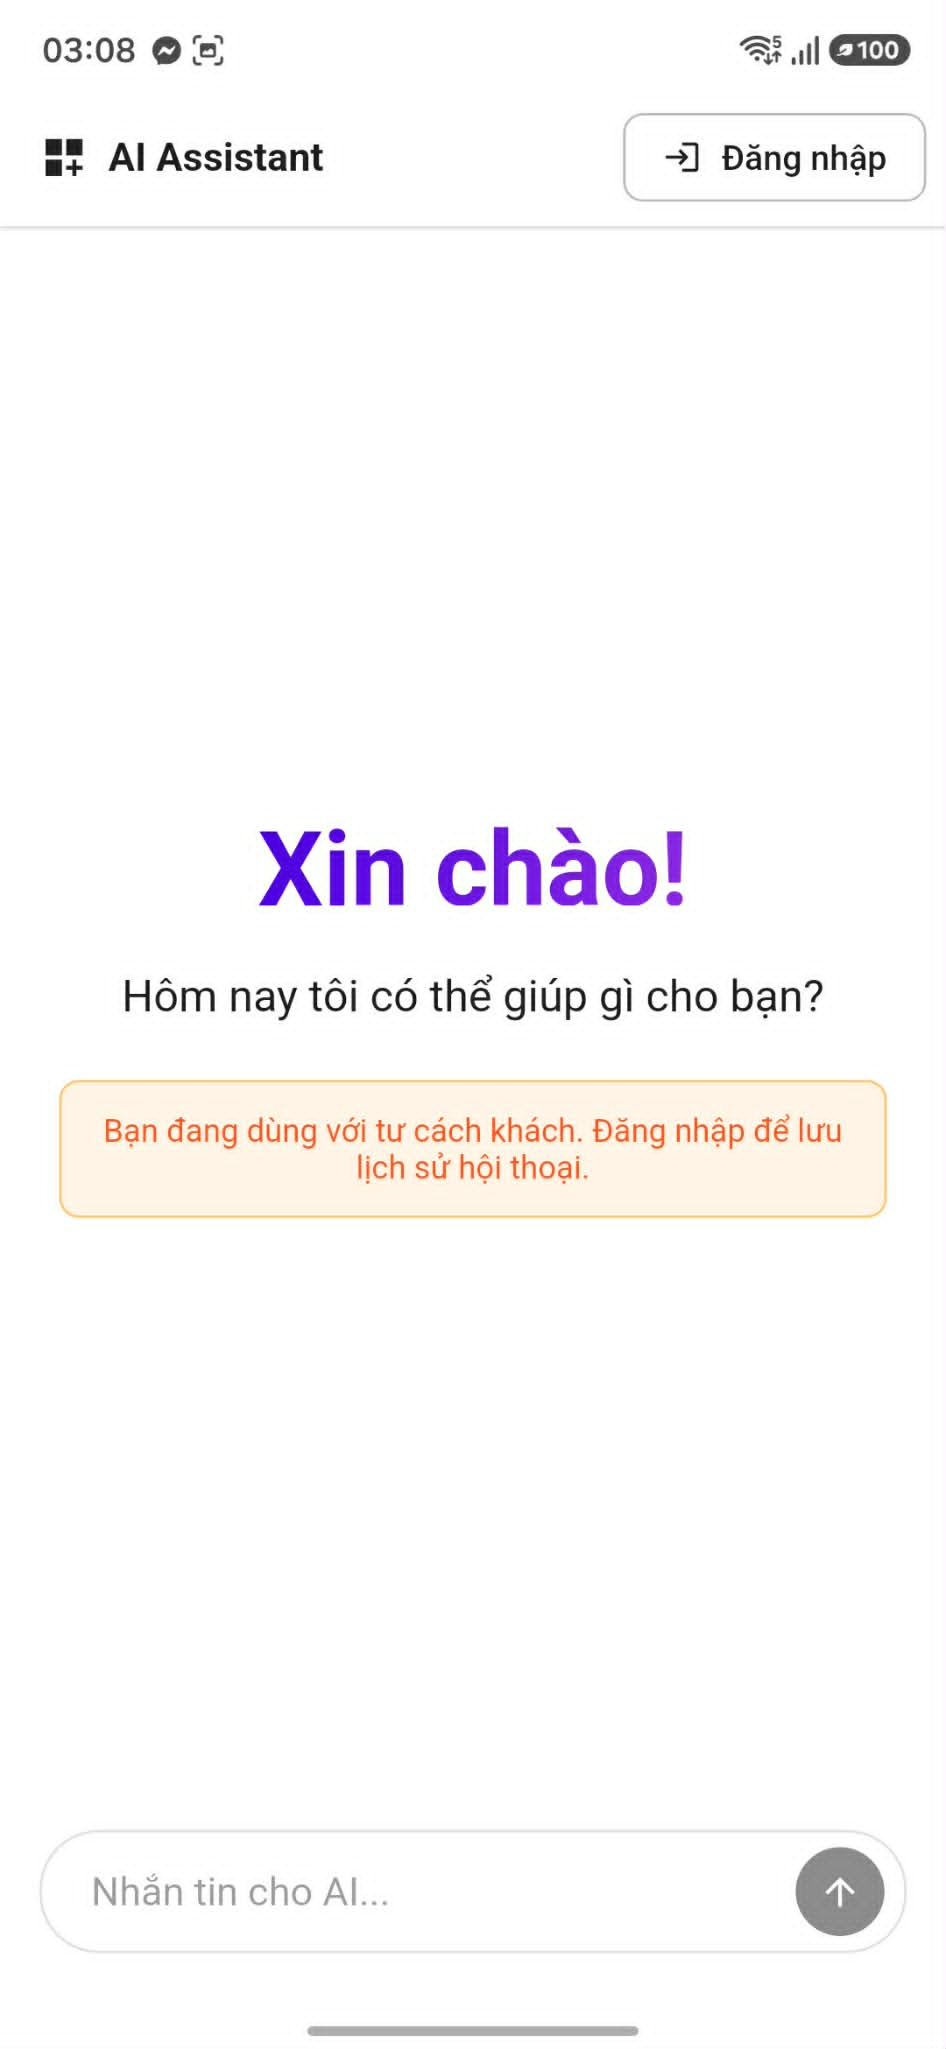
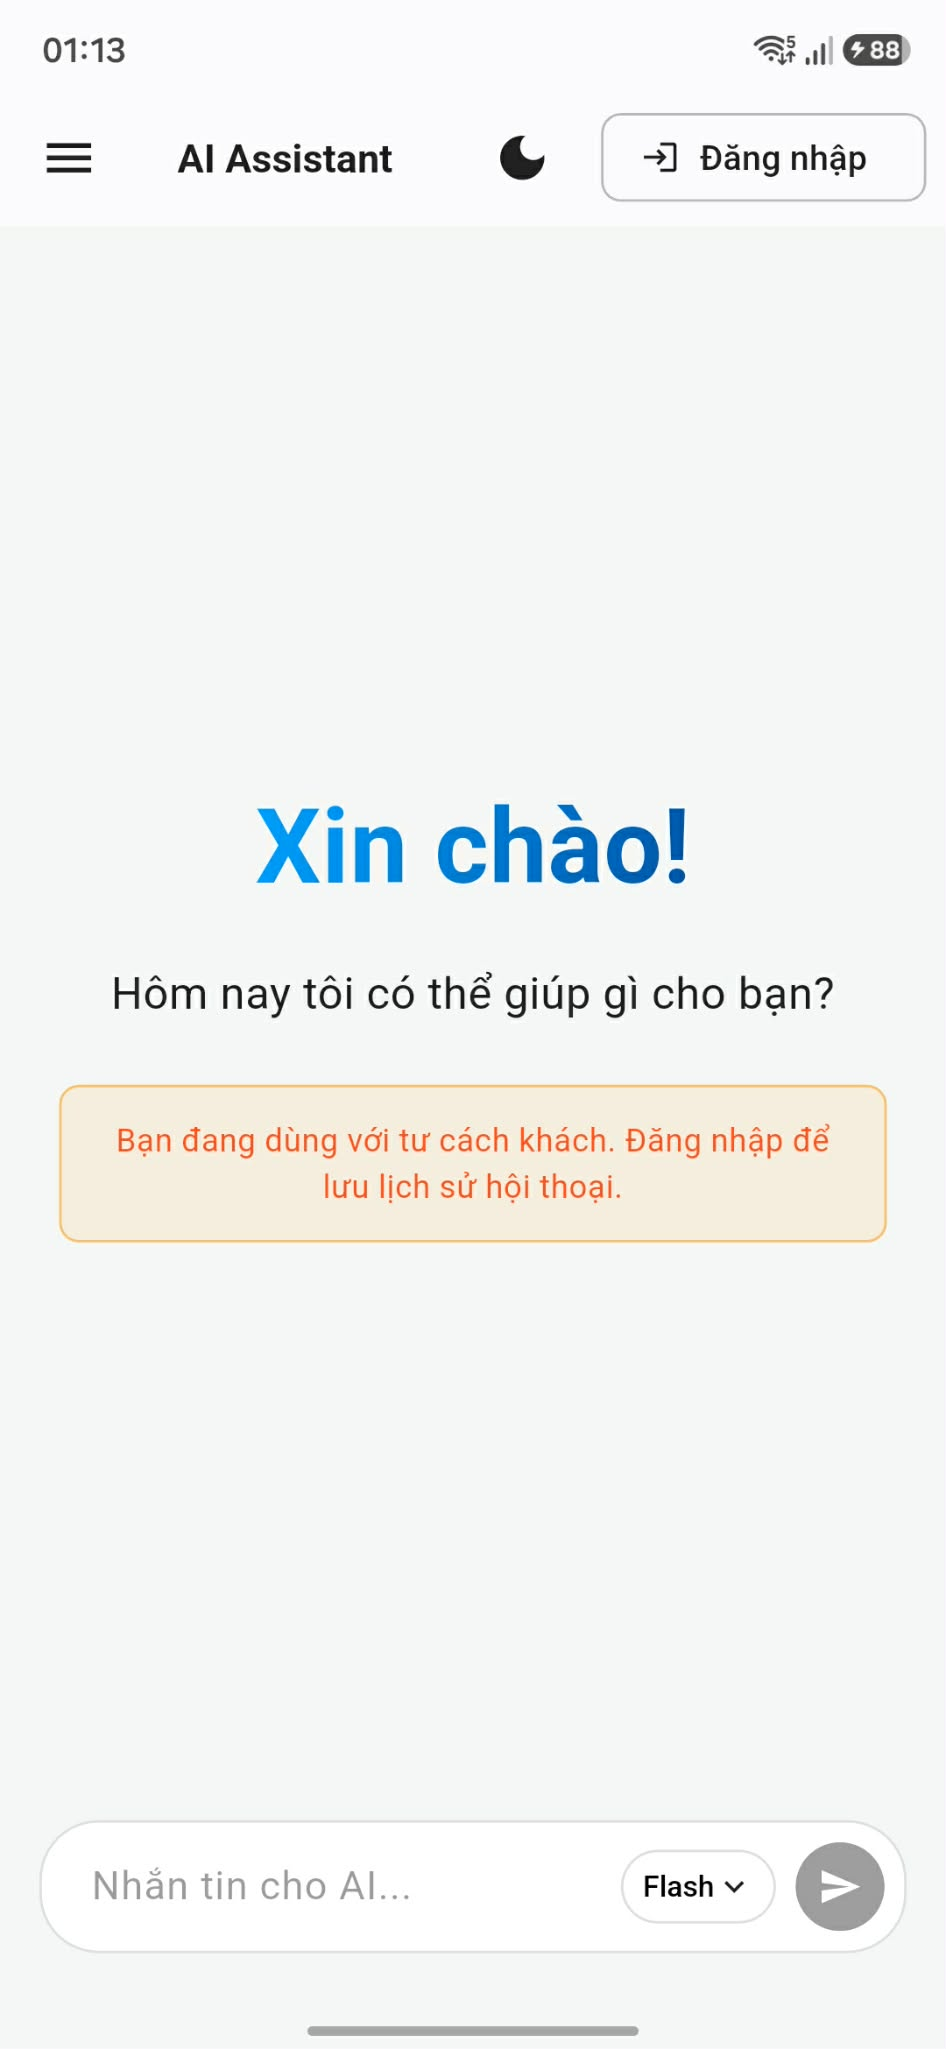
Cap nhat UI mobile

diff --git a/Chapter4/chapter4.tex b/Chapter4/chapter4.tex
@@ -1118,8 +1118,8 @@ Mục đích: Cung cấp biểu mẫu cho phép người dùng mới khởi tạ
 
 Bao gồm:
 \begin{enumerate}
-	\item Các trường nhập dữ liệu: Họ và tên, Email, Mật khẩu.
-	\item Nút chức năng "Sign up".
+	\item Các trường nhập dữ liệu: Họ và tên (Full Name), Mã sinh viên (Student Code), Email, Mật khẩu (Password) và Xác nhận mật khẩu (Confirm Password). Khung nhập mật khẩu có tích hợp biểu tượng ẩn/hiện.
+	\item Nút chức năng "Sign up" (Đăng ký).
 	\item Liên kết chuyển hướng nhanh "Login" (dành cho người dùng đã sở hữu tài khoản).
 	\item Nút điều hướng hình mũi tên quay lại đặt ở góc trên bên trái.
 \end{enumerate}
@@ -1127,9 +1127,9 @@ Bao gồm:
 Cách sử dụng:
 Để đăng ký tài khoản mới:
 \begin{enumerate}
-	\item Người dùng điền đầy đủ và chính xác các thông tin cá nhân vào từng ô nhập liệu tương ứng bao gồm Họ và tên, Email và Mật khẩu.
+	\item Người dùng điền đầy đủ và chính xác các thông tin cá nhân vào từng ô nhập liệu tương ứng.
 	\item Nhấn nút "Sign up".
-	\item Hệ thống tiến hành kiểm tra tính hợp lệ của dữ liệu đầu vào, nếu hợp lệ sẽ khởi tạo tài khoản mới thành công trên hệ thống và chuyển hướng đến màn hình đăng nhập.
+	\item Hệ thống tiến hành kiểm tra tính hợp lệ của dữ liệu đầu vào (bao gồm đối chiếu mật khẩu xác nhận). Nếu hợp lệ sẽ khởi tạo tài khoản thành công và chuyển hướng đến màn hình đăng nhập.
 \end{enumerate}
 
 Để quay lại màn hình Đăng nhập:
@@ -1146,24 +1146,24 @@ Cách sử dụng:
 	\label{fig:ui_mobile_login}
 \end{figure}
 
-Mục đích: Xác thực danh tính của người dùng nhằm cấp quyền truy cập vào các tính năng chuyên sâu bên trong hệ thống trên phân hệ di động.
+Mục đích: Xác thực danh tính của người dùng nhằm cấp quyền truy cập vào các tính năng chuyên sâu và lưu trữ lịch sử hội thoại trên phân hệ di động.
 
 Bao gồm:
 \begin{enumerate}
 	\item Biểu tượng logo hệ thống hình mũ cử nhân đặt tại trung tâm phía trên.
-	\item Các trường nhập liệu: Email và Password (Mật khẩu).
+	\item Các trường nhập liệu: Email và Password (có biểu tượng con mắt để ẩn/hiện mật khẩu).
 	\item Hộp kiểm "Remember me" (Ghi nhớ phiên đăng nhập) và liên kết "Forgot password?" (Quên mật khẩu).
 	\item Nút chức năng "Login" (Đăng nhập).
 	\item Liên kết chuyển hướng "Register" (Đăng ký tài khoản mới).
-	\item Nút hủy bỏ thao tác hình chữ "X" ở góc trên bên trái.
+	\item Nút điều hướng mũi tên quay lại ở góc trên bên trái.
 \end{enumerate}
 
 Cách sử dụng:
 Để truy cập vào hệ thống:
 \begin{enumerate}
 	\item Người dùng điền chính xác địa chỉ Email và Mật khẩu đã được đăng ký trước đó vào các ô tương ứng.
-	\item Tích chọn ô "Remember me" nếu muốn duy trì trạng thái đăng nhập cho những lần truy cập sau (tùy chọn).
-	\item Nhấn nút "Login" để hệ thống đối chiếu xác thực và điều hướng vào màn hình chính của ứng dụng.
+	\item Tích chọn ô "Remember me" nếu muốn hệ thống lưu lại Token, duy trì trạng thái đăng nhập cho những lần mở ứng dụng sau.
+	\item Nhấn nút "Login" để hệ thống đối chiếu xác thực và điều hướng vào màn hình AI Chat.
 \end{enumerate}
 
 Để xử lý khi gặp sự cố mật khẩu hoặc chưa có tài khoản:
@@ -1195,113 +1195,89 @@ Cách sử dụng:
 \begin{enumerate}
 	\item Người dùng nhập chính xác địa chỉ Email đã dùng để đăng ký tài khoản vào ô dữ liệu.
 	\item Nhấn nút "Send Reset Link".
-	\item Hệ thống ghi nhận, tự động gửi đường dẫn liên kết đặt lại mật khẩu đến hòm thư điện tử của người dùng và hiển thị thông báo kiểm tra thư.
+	\item Hệ thống ghi nhận, gửi đường dẫn liên kết đặt lại mật khẩu đến hòm thư điện tử của người dùng và hiển thị thông báo thành công.
 \end{enumerate}
 
-Để hủy bỏ thao tác và quay về màn hình trước:
+\subsubsection{Màn hình Thông tin cá nhân sinh viên (Mobile)}
+
+\begin{figure}[H]
+	\centering
+	\includegraphics[width=0.45\textwidth]{images/Infomation.jpg}
+	\caption{Giao diện Màn hình Hồ sơ cá nhân sinh viên trên di động}
+	\label{fig:ui_mobile_infomation}
+\end{figure}
+
+Mục đích: Hiển thị chi tiết toàn bộ thông tin định danh cá nhân, học vụ của sinh viên và hỗ trợ đăng xuất khỏi hệ thống.
+
+Bao gồm:
 \begin{enumerate}
-	\item Nhấn chọn nút biểu tượng mũi tên quay lại ở góc trên bên trái màn hình để quay trở về giao diện Đăng nhập nhanh chóng.
+	\item Vùng hiển thị ảnh đại diện (Avatar) hình tròn kèm họ tên đầy đủ của sinh viên.
+	\item Danh mục thông tin cơ bản "Basic Info" bao gồm: Số điện thoại (Phone), Email, Ngày sinh (Birthday), Nơi sinh (Place of Birth), Mã số sinh viên (Student Code) và Chức vụ (Current Position).
+	\item Danh mục thông tin học vụ "Academic Info" ở phía dưới.
+	\item Nút chỉnh sửa (hình chiếc bút) và nút Đăng xuất (màu đỏ) đặt tại góc trên bên phải giao diện.
+\end{enumerate}
+
+Cách sử dụng:
+\begin{enumerate}
+	\item Người dùng truy cập vào màn hình hồ sơ thông qua biểu tượng tài khoản trên màn hình AI Chat.
+	\item Hệ thống truy xuất dữ liệu từ cơ sở dữ liệu PostgreSQL và hiển thị đầy đủ lý lịch học tập. Các thông tin như Email, Student Code được lấy trực tiếp từ lúc đăng ký.
+	\item Nhấn nút Đăng xuất (mũi tên đỏ) để hủy phiên làm việc, xóa Token khỏi thiết bị và trở về màn hình AI Chat dưới tư cách Khách.
 \end{enumerate}
 
 \subsubsection{Màn hình AI Chatbot (Mobile)}
+
+Mục đích: Cung cấp không gian trò chuyện trực tiếp giữa sinh viên và AI Agent. Do yêu cầu lưu trữ ngữ cảnh, giao diện được chia thành hai trạng thái riêng biệt dựa trên việc người dùng đã xác thực hay chưa.
 
 \begin{figure}[H]
 	\centering
 	\begin{minipage}[t]{0.48\textwidth}
 		\centering
 		\includegraphics[width=\textwidth]{images/AI_Chat_Sign_Out.jpg}
-		\footnotesize a) Chế độ Khách (Không lưu lịch sử)
+		\footnotesize a) Chế độ Khách (Sign Out)
 	\end{minipage}
 	\hfill
 	\begin{minipage}[t]{0.48\textwidth}
 		\centering
 		\includegraphics[width=\textwidth]{images/AI_Chat_Sign_In.jpg}
-		\footnotesize b) Chế độ Thành viên (Có lịch sử chat)
+		\footnotesize b) Chế độ Thành viên (Sign In)
 	\end{minipage}
-	\caption{Giao diện Màn hình AI Chatbot trên phân hệ di động}
-	\label{fig:ui_mobile_chatbot}
+	\caption{Giao diện Màn hình AI Chatbot theo trạng thái đăng nhập}
+	\label{fig:ui_mobile_chatbot_states}
 \end{figure}
 
-Mục đích: Cung cấp không gian tương tác hội thoại trực tiếp giữa sinh viên và AI Agent để tra cứu môn học, tư vấn lộ trình đào tạo cá nhân hóa và giải đáp các thắc mắc về học chế tín chỉ.
-
-Bao gồm:
+Bao gồm các thành phần giao diện chính:
 \begin{enumerate}
-	\item Ô nhập câu hỏi "Nhắn tin cho AI..." và nút gửi hình mũi tên hướng lên (phía dưới).
-	\item Khung hộp thoại màu cam cảnh báo và nút chức năng "Đăng nhập" ở góc trên bên phải (dành riêng cho chế độ Khách ở Hình a).
-	\item Trình đơn kéo Sidebar dạng Drawer với biểu tượng ba dấu gạch ngang đặt tại góc trên bên trái (dành riêng cho chế độ Thành viên ở Hình b).
-	\item Thanh điều hướng phía đáy màn hình (Bottom Navigation Bar) gồm các mục: AI Chat, Home và Forum.
+	\item Thanh công cụ (AppBar): Chứa nút mở menu (bên trái), nút chuyển đổi giao diện Tối/Sáng (hình mặt trăng) và nút quản lý tài khoản (bên phải). Ở chế độ Khách, góc phải hiển thị nút "Đăng nhập". Ở chế độ Thành viên, hiển thị biểu tượng Avatar.
+	\item Khung hộp thoại cảnh báo màu cam (chỉ xuất hiện ở chế độ Khách): Nhắc nhở người dùng đăng nhập để lưu lịch sử hội thoại.
+	\item Ô nhập liệu phía dưới: Kèm theo danh sách thả xuống chọn tốc độ xử lý (Flash/Pro) và nút Gửi.
 \end{enumerate}
 
-Cách sử dụng:
-Để đặt câu hỏi cho AI Agent:
-\begin{enumerate}
-	\item Nhập nội dung câu hỏi hoặc yêu cầu tư vấn học tập vào ô nhập liệu ở phía dưới màn hình.
-	\item Nhấn nút gửi hình mũi tên.
-	\item Hệ thống phân tích câu hỏi, truy xuất đồ thị tri thức LightRAG và phản hồi câu trả lời tức thời dạng dòng (streaming) ngay trong khu vực hội thoại.
-\end{enumerate}
-
-Để điều phối trạng thái tài khoản và xem lại lịch sử:
-\begin{enumerate}
-	\item Nếu đang ở chế độ Khách, chọn nút "Đăng nhập" ở góc trên bên phải để chuyển hướng nhanh tới biểu mẫu xác thực danh tính.
-	\item Ở trạng thái đã đăng nhập (Thành viên), chọn nút biểu tượng menu ở góc trên bên trái để mở rộng thanh Drawer và chọn xem lại toàn bộ nội dung của phiên trò chuyện cũ.
-\end{enumerate}
-
-\subsubsection{Màn hình Quản lý tiến trình học tập (Mobile)}
+Bên cạnh đó, đối với người dùng đã đăng nhập, hệ thống cung cấp thêm trình đơn quản lý lịch sử hội thoại:
 
 \begin{figure}[H]
 	\centering
-	\includegraphics[width=0.45\textwidth]{images/Khoa_Hoc.jpg}
-	\caption{Giao diện Màn hình Quản lý tiến trình học tập trên phân hệ di động}
-	\label{fig:ui_mobile_khoa_hoc}
+	\includegraphics[width=0.45\textwidth]{images/AI_Chat_Sign_In_History.jpg}
+	\caption{Giao diện Trình đơn quản lý Lịch sử hội thoại (Sidebar Drawer)}
+	\label{fig:ui_mobile_chatbot_history}
 \end{figure}
-
-Mục đích: Giúp người học theo dõi trực quan tổng số tín chỉ học phần tích lũy hiện hành dựa trên cột mốc giới hạn 138 tín chỉ tốt nghiệp bắt buộc và quan sát danh sách lộ trình gợi ý học tập tiếp theo do AI Agent đề xuất.
 
 Bao gồm:
 \begin{enumerate}
-	\item Khung tiến độ học tập "Academic Process" tích hợp tổng số tín chỉ tích lũy (Total Credits), số tín chỉ tốt nghiệp bắt buộc (138 Required Credits) và thanh tiến trình đồ họa "Process to Graduation".
-	\item Khung khuyến nghị học phần "Recommended Next Steps" hiển thị danh sách các thẻ môn học do AI Agent gợi ý dựa trên tiến độ cá nhân.
-	\item Thanh thanh tiêu đề phía trên gồm biểu tượng Hồ sơ cá nhân (trái), tên hệ thống LearningPath (giữa), nút Thông báo và Đăng xuất (phải).
-	\item Thanh điều hướng phía dưới (Bottom Navigation Bar) với mục "Home" đang được kích hoạt.
+    \item Nút "+ Đoạn chat mới" (New Chat) nổi bật trên cùng để khởi tạo một luồng ngữ cảnh (Session) mới hoàn toàn.
+    \item Danh sách liệt kê các tiêu đề đoạn chat cũ được AI tự động tóm tắt.
+    \item Nút xóa (hình thùng rác màu đỏ) nằm cạnh mỗi đoạn chat.
 \end{enumerate}
 
 Cách sử dụng:
-Để kiểm tra thanh tiến độ và danh sách khuyến nghị học phần:
+Để tương tác với AI Agent:
 \begin{enumerate}
-	\item Nhấn chọn mục "Home" trên thanh điều hướng phía dưới để truy cập vào màn hình chính.
-	\item Hệ thống tự động phân tích dữ liệu điểm số từ cơ sở dữ liệu PostgreSQL để kết xuất phần trăm hoàn thành lên đồ thị thanh tiến trình trực quan.
-	\item Cuộn xuống phía dưới giao diện tại vùng "Recommended Next Steps" để xem chi tiết các thẻ gợi ý học tập và lộ trình tối ưu tiếp theo.
+	\item Người dùng nhập câu hỏi vào ô dưới cùng, chọn chế độ "Flash" (nhanh, dùng cho câu hỏi đơn giản) hoặc "Pro" (chậm, suy luận sâu, độ chính xác cao) và nhấn nút Gửi.
+	\item Người dùng chưa đăng nhập có thể chat thử nghiệm ở chế độ Khách. Lịch sử lúc này chỉ lưu tạm trên RAM và sẽ mất khi đóng ứng dụng. Người dùng nhấn nút "Đăng nhập" để chuyển đổi trạng thái và lưu trữ lâu dài.
 \end{enumerate}
 
-\subsubsection{Màn hình Hồ sơ cá nhân sinh viên (Mobile)}
-
-\begin{figure}[H]
-	\centering
-	\includegraphics[width=0.45\textwidth]{images/Infomation.jpg}
-	\caption{Giao diện Màn hình Hồ sơ cá nhân sinh viên trên phân hệ di động}
-	\label{fig:ui_mobile_infomation}
-\end{figure}
-
-Mục đích: Hiển thị chi tiết toàn bộ thông tin định danh cá nhân học vụ của sinh viên và hỗ trợ cập nhật, chỉnh sửa thông tin liên lạc.
-
-Bao gồm:
+Để quản lý lịch sử hội thoại (chỉ dành cho Thành viên):
 \begin{enumerate}
-	\item Vùng hiển thị ảnh đại diện (Avatar) mặc định hình tròn đặt tập trung tại trung tâm phía trên đi kèm họ tên đầy đủ của sinh viên.
-	\item Danh mục thông tin cơ bản "Basic Info" hiển thị chi tiết các trường: Số điện thoại (Phone), Thư điện tử (Email), Ngày sinh (Birthday), Nơi sinh (Place of Birth), Mã số sinh viên (Student Code) và Chức vụ hiện tại (Current Position).
-	\item Danh mục thông tin học vụ "Academic Info" hiển thị chi tiết các trường: Khóa học (Course) và Hệ đào tạo (Training Level).
-	\item Nút chức năng hình chiếc bút chỉnh sửa đặt tại góc trên bên phải giao diện.
-\end{enumerate}
-
-Cách sử dụng:
-Để tra cứu hồ sơ học tập cá nhân:
-\begin{enumerate}
-	\item Người dùng truy cập vào màn hình hồ sơ cá nhân thông qua biểu tượng tài khoản.
-	\item Hệ thống tự động truy xuất từ cơ sở dữ liệu và hiển thị đầy đủ toàn bộ lý lịch học tập, mã số sinh viên, khóa học hiện hành lên giao diện.
-\end{enumerate}
-
-Để cập nhật thông tin mới:
-\begin{enumerate}
-	\item Nhấn vào biểu tượng chiếc bút chỉnh sửa ở góc trên bên phải màn hình.
-	\item Thay đổi các trường thông tin liên lạc cơ bản hoặc thực hiện tải tệp ảnh đại diện mới từ bộ nhớ của thiết bị.
-	\item Xác nhận lưu dữ liệu để hệ thống đóng gói tệp tin nhị phân và gọi API đồng bộ hóa thông tin trực tiếp về cơ sở dữ liệu trung tâm.
+	\item Nhấn vào biểu tượng menu ở góc trái để mở thanh điều hướng Sidebar.
+    \item Nhấn vào một dòng bất kỳ trong danh sách để tải lại cuộc trò chuyện cũ từ MongoDB, hoặc nhấn vào biểu tượng thùng rác để xóa vĩnh viễn đoạn chat đó khỏi hệ thống.
+    \item Nhấn nút "+ Đoạn chat mới" để bắt đầu một chủ đề mới.
 \end{enumerate}
